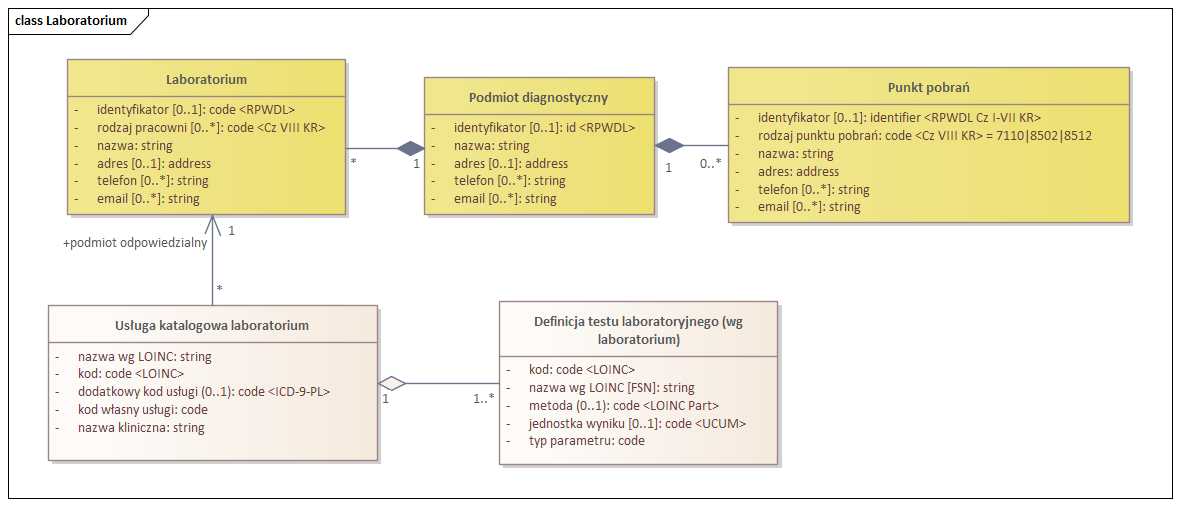
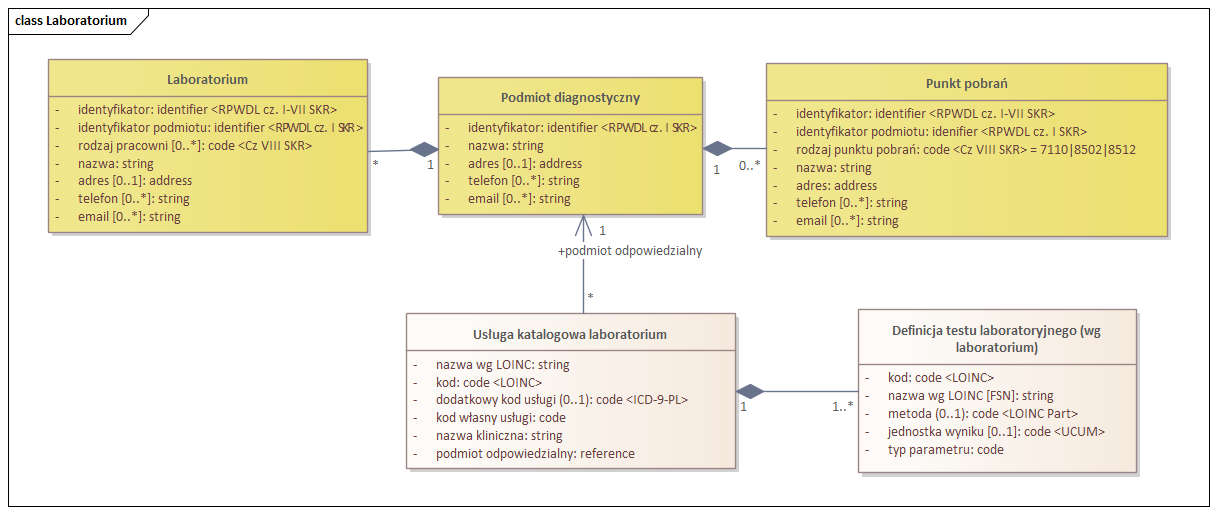
Cosmetics

Changed region(s): [[0.0, 0.0, 1.0, 0.504], [0.0305, 0.5929, 0.945, 0.9486], [0.0, 0.9783, 1.0, 1.0]]

diff --git a/input/pagecontent/index.md b/input/pagecontent/index.md
@@ -2,4 +2,4 @@ Specyfikacja ma charakter roboczy i zawiera reguły wymiany danych w zakresie us
 
 Głównym celem projektu jest rozwinięcie polskojęzycznej wersji systemu nazewnictwa LOINC oraz implementacja go do prototypu systemu SSIDL, który ułatwiłby wymianę danych dotyczących badań laboratoryjnych pomiędzy różnymi strukturami systemu ochrony zdrowia oraz pacjentem. Opracowanie i wdrożenie systemu opartego o nazewnictwo LOINC w laboratoriach ma na celu umożliwienie standaryzacji danych diagnostycznych, poprawę jakości i spójności raportów oraz integrację z innymi systemami informatycznymi.
 
-Specyfikacja jest powiązana z opracowywaną równolegle przez [Polskie Stowarzyszenie HL7](https://hl7.org.pl/) roboczą wersją specyfikacji krajowej dla diagnostyki laboratoryjnej oraz bazową specyfikacją krajową standardu HL7 FHIR i specyfikacjami europejskimi. Uzupełnieniem specyfikacji interperacyjności prototypu SSIDL jest [specyfikacja wymiany zleceń i wyników badań laboratoryjnych](exchange_artifacts.html), która również została opracowana w ramach projektu LOINC-SSIDL i docelowo ma stanowić część specyfikacji krajowej stnadardu HL7 FHIR dla diagnostyki laboratoryjnej.
+Specyfikacja jest powiązana z opracowywaną równolegle przez [Polskie Stowarzyszenie HL7](https://hl7.org.pl/) roboczą wersją specyfikacji krajowej dla diagnostyki laboratoryjnej oraz bazową specyfikacją krajową standardu HL7 FHIR i specyfikacjami europejskimi. Uzupełnieniem specyfikacji interoperacyjności prototypu SSIDL jest [specyfikacja wymiany zleceń i wyników badań laboratoryjnych](exchange_artifacts.html), która również została opracowana w ramach projektu LOINC-SSIDL i docelowo ma stanowić część specyfikacji krajowej standardu HL7 FHIR dla diagnostyki laboratoryjnej.
